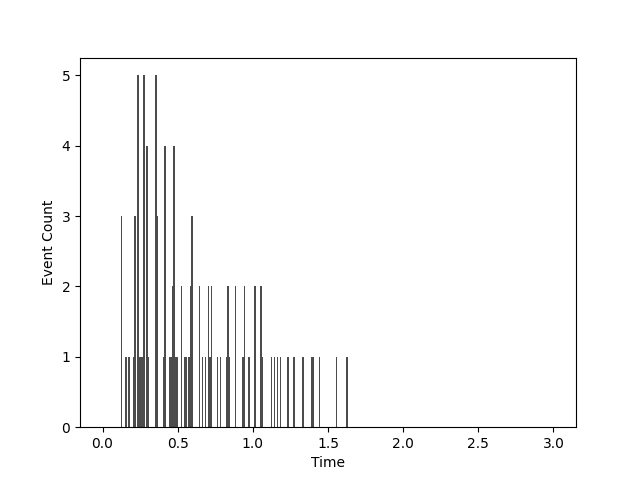
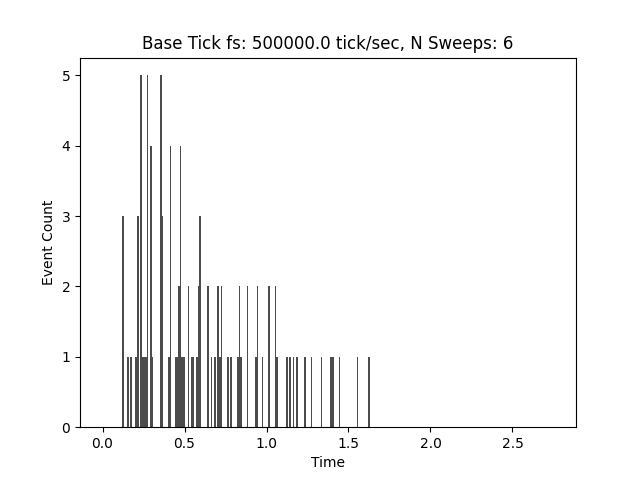
Added file metadata feature: Base tick dt, n bins, bin size, sweep offset

diff --git a/srf_reader.py b/srf_reader.py
@@ -1,26 +1,19 @@
 import re
-from typing import List, Tuple
+import struct
+from typing import List, Tuple, Dict
 
-def decode_chunk_to_seconds(chunk: bytes, spike2v10_max_fs: float=5e5, return_ticks: bool=False) -> int | float:
-    """ Decode a 4-byte chunk from the .srf file into a float (seconds or ticks). 
-    32-bit unsigned integer gives channel ticks of event times.
-    Args:
-        chunk (bytes): 4-byte chunk from the .srf file.
-        spike2v10_max_fs (float): Maximum sampling frequency of Spike2 v10. Default is 5e5.
-        return_ticks (bool): If True, return raw ticks instead of seconds. Default is False. 
-    Returns:
-        int | float: Decoded value in ticks or seconds. 
-    """
-    u32: int = int.from_bytes(chunk, byteorder="little", signed=False)
-    if return_ticks:
-        return u32
-    return u32 / spike2v10_max_fs
-
-def read_srf_psth(srfpath: str) -> List[Tuple[float, List[float]]]:
+def read_srf_psth(srfpath: str) -> Tuple[Dict[str, float | int], List[Tuple[float, List[float]]]]:
     """ Read a .srf psth file from Spik2v10 and extract sweep/event times. 
     Args:
         srfpath (str): Path to the .srf file.
     Returns: 
+        Dict[str, float | int]: File metadata in the format:
+        {
+            "N Bins Per Sweep" : int,
+            "Bin Size (sec)" : float,
+            "Offset (sec)" : float, 
+            "Base Tick dt (sec)" : float
+        }
         List[Tuple[float, List[float]]]: File contents in the format:
             [
                 (sweep1_start_time, [sweep1_event_time_1, sweep1_event_time_2, ...]),
@@ -34,6 +27,13 @@ def read_srf_psth(srfpath: str) -> List[Tuple[float, List[float]]]:
     with open(srfpath, "rb") as f:
         raw_bytes: bytes = f.read()
 
+    file_metadata: Dict[str, float | int] = {
+        "N Bins Per Sweep": int.from_bytes(raw_bytes[8:12], byteorder="little", signed=False),
+        "Bin Size (sec)": struct.unpack("<d", raw_bytes[16:24])[0],
+        "Offset (sec)": struct.unpack("<d", raw_bytes[24:32])[0],
+        "Base Tick dt (sec)": struct.unpack("<d", raw_bytes[40:48])[0]
+    }
+
     SWEEP_PATTERN: re.Pattern = re.compile(
         b"(.{12})"                                  # channel preamble: 12 bytes (sweep start time, sweep end time, unknown)
         b"\xff{16}\x00{36}\xff{16}"                 # channel header: ffff x 4 , .... x 9 , ffff x 4 
@@ -43,7 +43,7 @@ def read_srf_psth(srfpath: str) -> List[Tuple[float, List[float]]]:
     )
 
     file_contents: List[Tuple[float, List[float]]] = []
-    for offset in range(0, len(raw_bytes), 4): # jump 4 bytes for 32-bit encoding 
+    for offset in range(64, len(raw_bytes), 4): # start at bottom of header, jump 4 bytes for 32-bit encoding 
         
         match: re.Match | None = SWEEP_PATTERN.match(raw_bytes, offset) 
         if match:
@@ -52,12 +52,12 @@ def read_srf_psth(srfpath: str) -> List[Tuple[float, List[float]]]:
             event_times: List[float] = []
             capture: bytes = match.group(2)
             for capture_offset in range(0, len(capture), 4):
-                event_times.append(decode_chunk_to_seconds(capture[capture_offset:capture_offset + 4]))
+                event_times.append(int.from_bytes(capture[capture_offset:capture_offset + 4], byteorder="little", signed=False) * file_metadata["Base Tick dt (sec)"])
             
             # Decode sweep start time
-            sweep_time: float = decode_chunk_to_seconds(match.group(1)[:4])
+            sweep_time: float = int.from_bytes(match.group(1)[:4], byteorder="little", signed=False) * file_metadata["Base Tick dt (sec)"]
             file_contents.append((sweep_time, event_times))
     
-    return file_contents
+    return file_metadata, file_contents
 
             

diff --git a/example/example.py b/example/example.py
@@ -1,5 +1,5 @@
 import matplotlib.pyplot as plt
-from typing import List, Tuple
+from typing import List, Tuple, Dict
 
 import sys
 sys.path.append(".")
@@ -7,20 +7,26 @@ sys.path.append(".")
 from srf_reader import read_srf_psth
 
 def plot_srf_contents(
-        file_contents: List[Tuple[float, List[float]]], 
-        bin_size: float=0.01, 
-        t_min: float=0.0, 
-        t_max: float=3.0) -> None:
+        file_metadata: Dict[str, float | int],
+        file_contents: List[Tuple[float, List[float]]]
+    ) -> None:
     relative_event_times: List[float] = [event - sweep[0] 
         for sweep in file_contents 
         for event in sweep[1]
     ]
-    plt.hist(relative_event_times, bins=int((t_max - t_min) / bin_size), range=(t_min, t_max), color="black", alpha=0.7)
+    bins: List[float] = [
+        x * file_metadata["Bin Size (sec)"] + file_metadata["Offset (sec)"] 
+        for x in range(0, file_metadata["N Bins Per Sweep"] + 1) #type: ignore
+    ]
+    plt.hist(relative_event_times, bins=bins, color="black", alpha=0.7)
     plt.xlabel("Time")
     plt.ylabel("Event Count")
+    plt.title(f"Base Tick fs: {int(1 / file_metadata['Base Tick dt (sec)'])} tick/sec, N Sweeps: {len(file_contents)}") #type: ignore
     plt.savefig("./example/example.png")
     plt.show()
 
 if __name__ == "__main__":
-    srf_contents: List[Tuple[float, List[float]]] = read_srf_psth("./example/example.srf")
-    plot_srf_contents(srf_contents)
+    file_metadata: Dict[str, float | int]
+    srf_contents: List[Tuple[float, List[float]]] 
+    file_metadata, srf_contents = read_srf_psth("./example/example.srf")
+    plot_srf_contents(file_metadata, srf_contents)

diff --git a/README.md b/README.md
@@ -2,8 +2,14 @@
 
 A lightweight Python reader for Spike2v10 `.srf` PSTH files. **Assumes 32-bit encoding and 50khz max tick fs.**
 
-Return format `List[Tuple[float, List[float]]]`:
+Return format `Dict[str, float | int], List[Tuple[float, List[float]]]`:
 ```python
+{
+    "N Bins Per Sweep" : int,
+    "Bin Size (sec)" : float,
+    "Offset (sec)" : float, 
+    "Base Tick dt (sec)" : float
+}
 [
     (sweep1_start_time, [sweep1_event_time_1, sweep1_event_time_2, ...]),
     (sweep2_start_time, [sweep2_event_time_1, sweep2_event_time_2, ...]),
